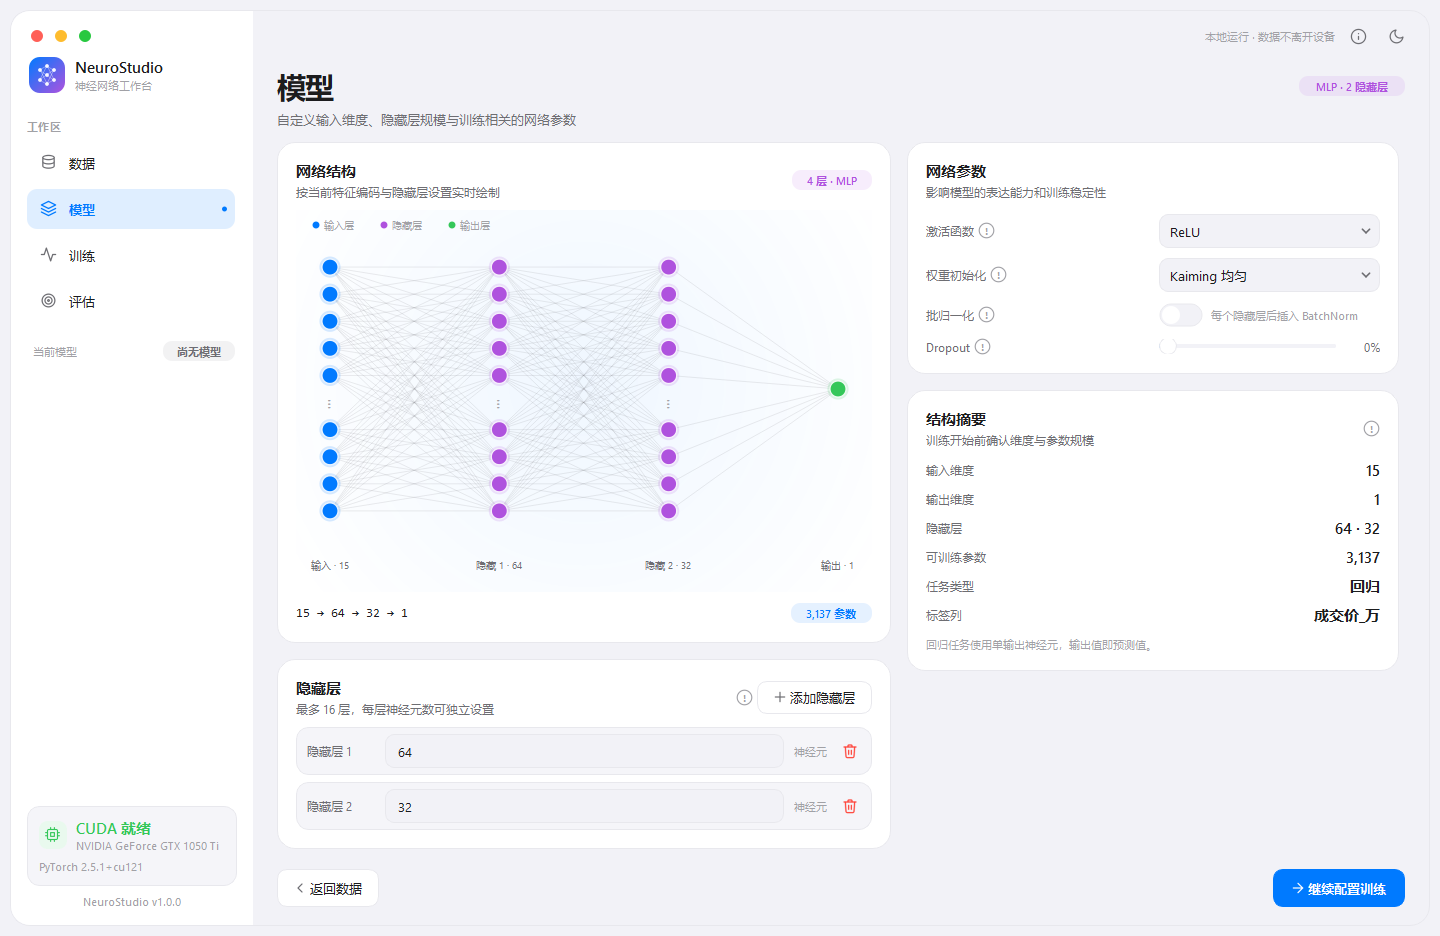
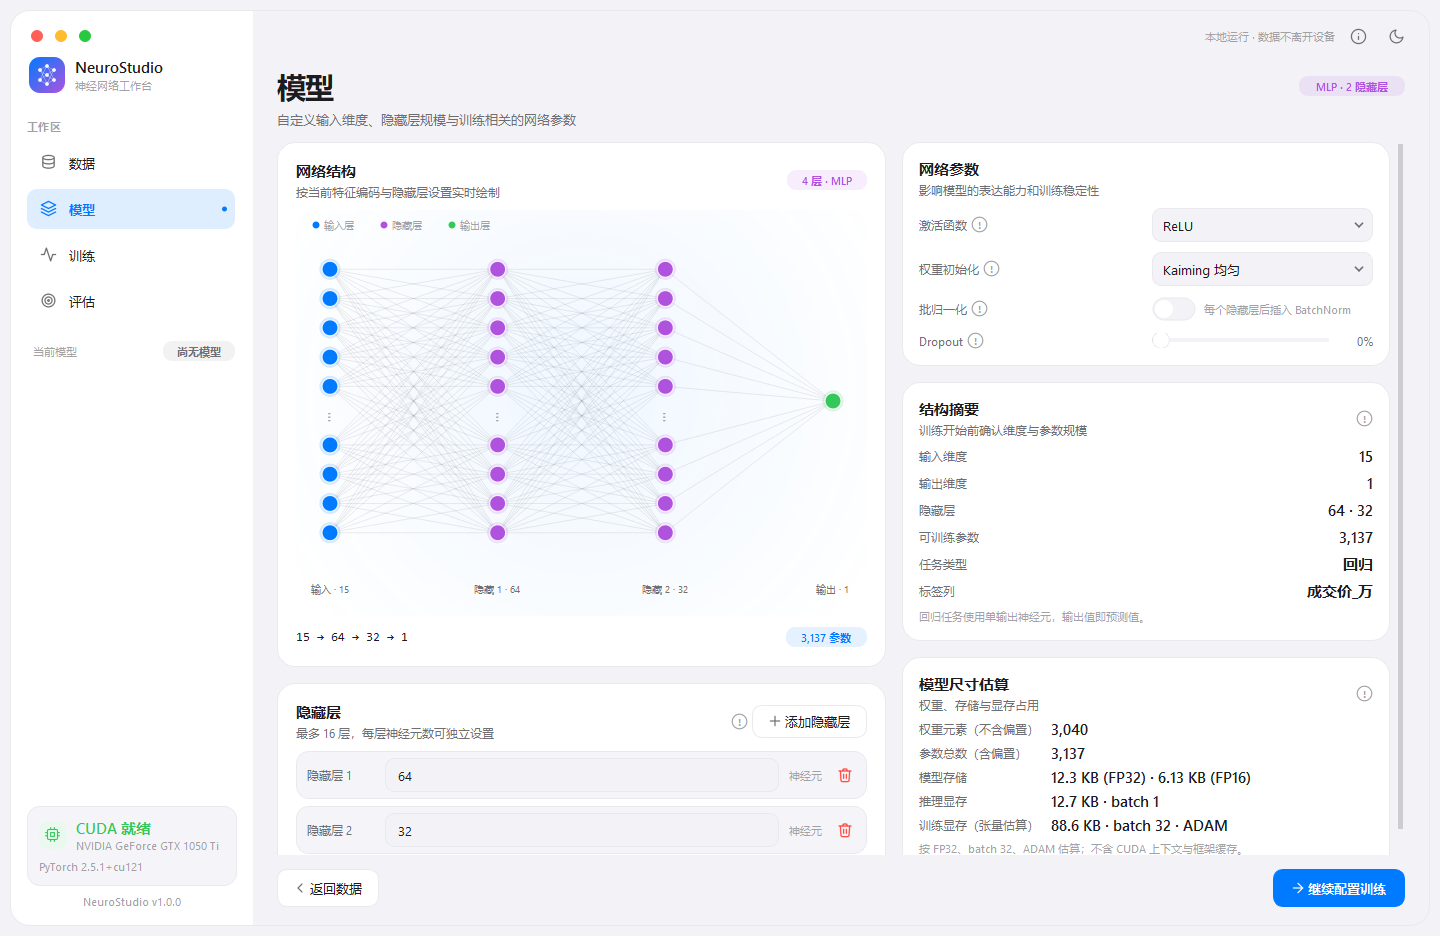
feat: add model size estimation to model page

diff --git a/docs/parameters.html b/docs/parameters.html
@@ -67,6 +67,17 @@
 </ul>
 <p>可训练参数量的近似计算：每个 Linear 层有 <code>in×out + out</code> 个参数；启用 BatchNorm 时每层再增加 <code>2×out</code> 个参数。</p>
 
+<h3 id="model_size">模型尺寸估算</h3>
+<p>结构摘要下方的「模型尺寸估算」用于快速判断模型规模：</p>
+<ul>
+    <li><b>权重元素</b>：所有 Linear 层的 <code>in×out</code> 权重数量，加上 BatchNorm 的缩放参数 γ（每层宽度个）。</li>
+    <li><b>参数总数</b>：权重元素 + 所有偏置（Linear 的 out 个、BatchNorm 的 β）。</li>
+    <li><b>模型存储</b>：<code>参数总数 × 4 bytes</code>（FP32）或 <code>× 2 bytes</code>（FP16）。ZIP 中的 weights.pt 是 FP32 state_dict，JSON 元数据很小。</li>
+    <li><b>推理显存</b>：参数存储 + batch=1 的前向激活，约为 <code>参数×4 + Σ层宽×4</code>。</li>
+    <li><b>训练显存</b>：参数 + 梯度 + 优化器状态 + 当前 batch 的前向/反向激活（约前向激活的 2 倍）。Adam/AdamW 每个参数保留 2 份状态，SGD momentum 与 RMSprop 约 1 份；再乘约 1.15 的工作区系数。</li>
+</ul>
+<p>这些数值是模型张量的理论估算，不包含 CUDA 上下文、PyTorch 缓存、cuDNN workspace 与数据加载器的开销；实际显存通常更高。模型页会按当前训练设置的 batch size 与优化器显示估算值。</p>
+
 <h3 id="activation">激活函数</h3>
 <ul>
     <li><b>ReLU</b>：<code>f(x)=max(0,x)</code>。计算快、缓解梯度消失，是最常用的默认选择；负半轴梯度为 0。</li>

diff --git a/neurostudio/ui/pages/model_page.py b/neurostudio/ui/pages/model_page.py
@@ -2,6 +2,8 @@
 
 from __future__ import annotations
 
+from dataclasses import replace
+
 from PySide6.QtCore import Qt, Signal
 from PySide6.QtWidgets import (
     QFrame,
@@ -16,7 +18,12 @@ from PySide6.QtWidgets import (
     QWidget,
 )
 
-from ...core.model import ACTIVATION_LABELS, INITIALIZERS, MAX_HIDDEN_LAYERS
+from ...core.model import (
+    ACTIVATION_LABELS,
+    INITIALIZERS,
+    MAX_HIDDEN_LAYERS,
+    estimate_model_size,
+)
 from ...core.trainer import primary_metric_label
 from ...state import AppState
 from ..theme import theme
@@ -125,7 +132,7 @@ class ModelPage(QWidget):
         left.addWidget(layers_card)
 
         # 网络参数
-        params_card = Card(padding=18, spacing=14)
+        params_card = Card(padding=16, spacing=10)
         params_card.add(CardHeader("网络参数", "影响模型的表达能力和训练稳定性"))
         grid = QGridLayout()
         grid.setHorizontalSpacing(12)
@@ -177,11 +184,11 @@ class ModelPage(QWidget):
         right.addWidget(params_card)
 
         # 结构信息
-        info_card = Card(padding=18, spacing=12)
+        info_card = Card(padding=16, spacing=8)
         info_card.add(CardHeader("结构摘要", "训练开始前确认维度与参数规模", HelpButton("structure")))
         info_grid = QGridLayout()
         info_grid.setHorizontalSpacing(12)
-        info_grid.setVerticalSpacing(9)
+        info_grid.setVerticalSpacing(7)
         self.info_labels: dict[str, QLabel] = {}
         rows = [
             ("input", "输入维度"),
@@ -203,6 +210,35 @@ class ModelPage(QWidget):
         self.output_hint.setWordWrap(True)
         info_card.add(self.output_hint)
         right.addWidget(info_card)
+
+        # 模型尺寸估算
+        size_card = Card(padding=16, spacing=6)
+        size_card.add(
+            CardHeader("模型尺寸估算", "权重、存储与显存占用", HelpButton("model_size"))
+        )
+        size_grid = QGridLayout()
+        size_grid.setHorizontalSpacing(12)
+        size_grid.setVerticalSpacing(4)
+        self.size_labels: dict[str, QLabel] = {}
+        size_rows = [
+            ("weights", "权重元素（不含偏置）"),
+            ("params", "参数总数（含偏置）"),
+            ("storage", "模型存储"),
+            ("infer", "推理显存"),
+            ("train", "训练显存（张量估算）"),
+        ]
+        for index, (key, title) in enumerate(size_rows):
+            size_grid.addWidget(label(title, "muted"), index, 0)
+            value = label("—", "card-title")
+            value.setWordWrap(True)
+            size_grid.addWidget(value, index, 1)
+            self.size_labels[key] = value
+        size_grid.setColumnStretch(1, 1)
+        size_card.add_layout(size_grid)
+        self.size_hint = label("选择数据后估算模型尺寸。", "tiny")
+        self.size_hint.setWordWrap(True)
+        size_card.add(self.size_hint)
+        right.addWidget(size_card)
         right.addStretch(1)
 
         actions = QHBoxLayout()
@@ -223,6 +259,13 @@ class ModelPage(QWidget):
         has_data = self.state.frame is not None
         input_dim = prepared.input_dim if prepared else (config.input_dim if has_data else 0)
         output_dim = prepared.output_dim if prepared else (config.output_dim if has_data else 0)
+        size_config = replace(
+            config,
+            input_dim=max(int(input_dim), 1),
+            hidden_layers=list(config.hidden_layers),
+            output_dim=max(int(output_dim), 1),
+        )
+        size_stats = estimate_model_size(size_config)
 
         self._syncing = True
         try:
@@ -267,7 +310,7 @@ class ModelPage(QWidget):
             self.info_labels["hidden"].setText(
                 " · ".join(str(x) for x in config.hidden_layers)
             )
-            parameters = self._parameter_count(input_dim, config.hidden_layers, output_dim, config.batch_norm)
+            parameters = size_stats.parameter_count
             self.info_labels["params"].setText(_format_params(parameters))
             self.param_pill.setText(f"{_format_params(parameters)} 参数")
             self.param_pill.set_tone("accent")
@@ -281,9 +324,7 @@ class ModelPage(QWidget):
             self.info_labels["input"].setText("—")
             self.info_labels["output"].setText("—")
             self.info_labels["hidden"].setText(" · ".join(str(x) for x in config.hidden_layers))
-            parameters = self._parameter_count(
-                max(input_dim, 1), config.hidden_layers, max(output_dim, 1), config.batch_norm
-            )
+            parameters = size_stats.parameter_count
             self.info_labels["params"].setText(_format_params(parameters) if has_data else "—")
             self.param_pill.setText(f"{_format_params(parameters)} 参数" if has_data else "0 参数")
             self.param_pill.set_tone("gray")
@@ -301,18 +342,47 @@ class ModelPage(QWidget):
             self.output_hint.setText("回归任务使用单输出神经元，输出值即预测值。")
         self.continue_btn.setEnabled(has_data)
         self.add_layer_btn.setEnabled(len(config.hidden_layers) < MAX_HIDDEN_LAYERS)
+        self._update_size_card(size_stats, has_data and prepared is not None)
 
-    @staticmethod
-    def _parameter_count(input_dim: int, hidden: list[int], output_dim: int, batch_norm: bool) -> int:
-        total = 0
-        prev = input_dim
-        for width in hidden:
-            total += prev * width + width
-            if batch_norm:
-                total += 2 * width
-            prev = width
-        total += prev * output_dim + output_dim
-        return total
+    def _update_size_card(self, stats, ready: bool) -> None:
+        if not ready:
+            for value in self.size_labels.values():
+                value.setText("—")
+            self.size_hint.setText("选择数据后估算模型尺寸。")
+            return
+        cfg = self.state.training_config
+        batch = max(1, int(cfg.batch_size))
+        optimizer = str(cfg.optimizer).upper()
+        param_bytes = stats.fp32_bytes
+        activation_bytes = stats.activation_elements * 4
+        optimizer_states = {"ADAM": 2, "ADAMW": 2, "SGD": 1, "RMSPROP": 1}.get(
+            optimizer, 2
+        )
+        train_bytes = int(
+            (
+                param_bytes
+                + param_bytes
+                + param_bytes * optimizer_states
+                + activation_bytes * 2 * batch
+            )
+            * 1.15
+        )
+        self.size_labels["weights"].setText(f"{stats.weight_count:,}")
+        self.size_labels["params"].setText(f"{stats.parameter_count:,}")
+        self.size_labels["storage"].setText(
+            f"{_format_bytes(stats.fp32_bytes)} (FP32) · "
+            f"{_format_bytes(stats.fp16_bytes)} (FP16)"
+        )
+        self.size_labels["infer"].setText(
+            f"{_format_bytes(param_bytes + activation_bytes)} · batch 1"
+        )
+        self.size_labels["train"].setText(
+            f"{_format_bytes(train_bytes)} · batch {batch} · {optimizer}"
+        )
+        self.size_hint.setText(
+            f"按 FP32、batch {batch}、{optimizer} 估算；不含 CUDA 上下文与框架缓存。"
+        )
+
 
     # -- 隐藏层行 -----------------------------------------------------------
     def _clear_layer_rows(self) -> None:
@@ -432,3 +502,14 @@ def _format_params(value: int) -> str:
     if value >= 10_000:
         return f"{value / 1000:.1f}k"
     return f"{value:,}"
+
+
+def _format_bytes(value: int) -> str:
+    size = float(max(value, 0))
+    for unit in ("B", "KB", "MB", "GB"):
+        if size < 1024 or unit == "GB":
+            if unit == "B":
+                return f"{int(size)} B"
+            return f"{size:.2f} {unit}" if size < 10 else f"{size:.1f} {unit}"
+        size /= 1024
+    return f"{size:.1f} GB"

diff --git a/neurostudio/core/model.py b/neurostudio/core/model.py
@@ -98,6 +98,43 @@ class ModelConfig:
         return " → ".join(str(n) for n in layers)
 
 
+@dataclass(frozen=True)
+class ModelSizeStats:
+    weight_count: int
+    bias_count: int
+    parameter_count: int
+    fp32_bytes: int
+    fp16_bytes: int
+    activation_elements: int
+
+
+def estimate_model_size(config: ModelConfig) -> ModelSizeStats:
+    """估算参数量、权重元素数与 FP32/FP16 存储尺寸（不含框架开销）。"""
+    config.normalized().validate()
+    weights = 0
+    biases = 0
+    previous = config.input_dim
+    for width in config.hidden_layers:
+        weights += previous * width
+        biases += width
+        if config.batch_norm:
+            weights += width
+            biases += width
+        previous = width
+    weights += previous * config.output_dim
+    biases += config.output_dim
+    parameters = weights + biases
+    activation_elements = config.input_dim + sum(config.hidden_layers) + config.output_dim
+    return ModelSizeStats(
+        weight_count=weights,
+        bias_count=biases,
+        parameter_count=parameters,
+        fp32_bytes=parameters * 4,
+        fp16_bytes=parameters * 2,
+        activation_elements=activation_elements,
+    )
+
+
 class MLP(nn.Module):
     """由 :class:`ModelConfig` 生成的顺序多层感知机。"""
 

diff --git a/tests/test_core.py b/tests/test_core.py
@@ -20,7 +20,7 @@ from neurostudio.core.data import (
     split_indices,
 )
 from neurostudio.core.metrics import classification_metrics, regression_metrics
-from neurostudio.core.model import ModelConfig, build_model
+from neurostudio.core.model import ModelConfig, build_model, estimate_model_size
 from neurostudio.core.persistence import (
     build_bundle,
     load_bundle,
@@ -71,6 +71,27 @@ def test_dynamic_architecture(hidden, output_dim, batch_norm, dropout):
     extra = ModelConfig.from_dict(config.to_dict())
     assert extra.hidden_layers == hidden
     assert extra.output_dim == output_dim
+
+
+def test_estimate_model_size():
+    stats = estimate_model_size(
+        ModelConfig(
+            input_dim=5,
+            hidden_layers=[7, 3],
+            output_dim=2,
+            batch_norm=True,
+        )
+    )
+    assert stats.weight_count == 72
+    assert stats.bias_count == 22
+    assert stats.parameter_count == 94
+    assert stats.fp32_bytes == 94 * 4
+    assert stats.fp16_bytes == 94 * 2
+    assert stats.activation_elements == 5 + 7 + 3 + 2
+    model = build_model(
+        ModelConfig(input_dim=5, hidden_layers=[7, 3], output_dim=2, batch_norm=True)
+    )
+    assert model.parameter_count == stats.parameter_count
 
 
 def test_model_rejects_empty_hidden_layers():

diff --git a/README.md b/README.md
@@ -66,7 +66,7 @@
 | 模块 | 能力 |
 | --- | --- |
 | **数据** | CSV / TSV / TXT / Excel；缺失值均值 / 中位数 / 众数填充或删除；数值标准化；类别特征 One-Hot / 序数编码；自动推断回归 / 分类任务 |
-| **网络** | 输入维度随特征编码自动计算；隐藏层 1–16 层、每层 1–8192 个神经元；输出维度按标签自动对齐；8 种激活函数、5 种初始化、Dropout、BatchNorm；实时结构图与参数量 |
+| **网络** | 输入维度随特征编码自动计算；隐藏层 1–16 层、每层 1–8192 个神经元；输出维度按标签自动对齐；8 种激活函数、5 种初始化、Dropout、BatchNorm；实时结构图、参数量、权重/存储/显存估算 |
 | **训练** | 后台线程；epochs、batch size、学习率、优化器、损失、类别权重、标签平滑、验证比例、学习率策略、权重衰减、梯度裁剪、早停、随机种子、设备；损失 / 指标 / 学习率三类曲线 |
 | **评估** | 独立测试集；分类：Accuracy、macro Precision / Recall / F1、ROC-AUC、MCC、Cohen's κ、Log loss、特异度、平衡准确率、混淆矩阵、逐类报告；回归：R²、RMSE、MAE、MAPE、MedAE、解释方差、平均偏差、预测散点 |
 | **模型包** | ZIP（`weights.pt` + `model.json`），保存结构、预处理、训练参数、曲线、最佳轮次与指标；兼容旧版 `.nfs` |
@@ -233,7 +233,7 @@ python tests/app/predict_app.py path/to/model.zip
 
 文档：[`docs/parameters.html`](docs/parameters.html)
 
-覆盖内容：激活函数、初始化、Dropout、BatchNorm、优化器、损失函数、类别权重、标签平滑、
+覆盖内容：激活函数、初始化、Dropout、BatchNorm、模型尺寸估算、优化器、损失函数、类别权重、标签平滑、
 学习率策略、权重衰减、梯度裁剪、早停、指标公式等。
 
 ## 架构
@@ -291,7 +291,7 @@ python -m pytest tests -q
 ```
 
 覆盖动态网络、数据预处理、指标、回归 / 分类训练、早停、类别权重、标签平滑、
-AUC / MCC / κ / Log loss、ZIP 模型包与旧版兼容。当前测试集：**22 passed**。
+AUC / MCC / κ / Log loss、ZIP 模型包与旧版兼容。当前测试集：**23 passed**。
 
 ## 常见问题
 
